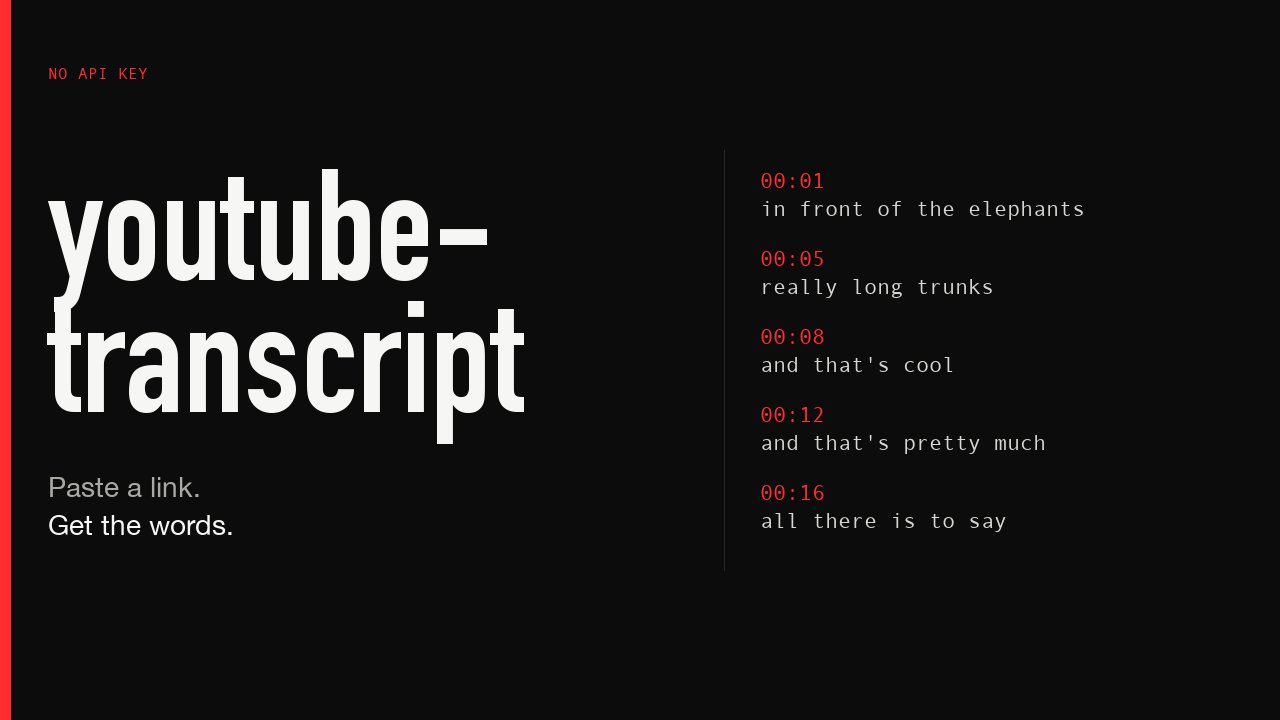
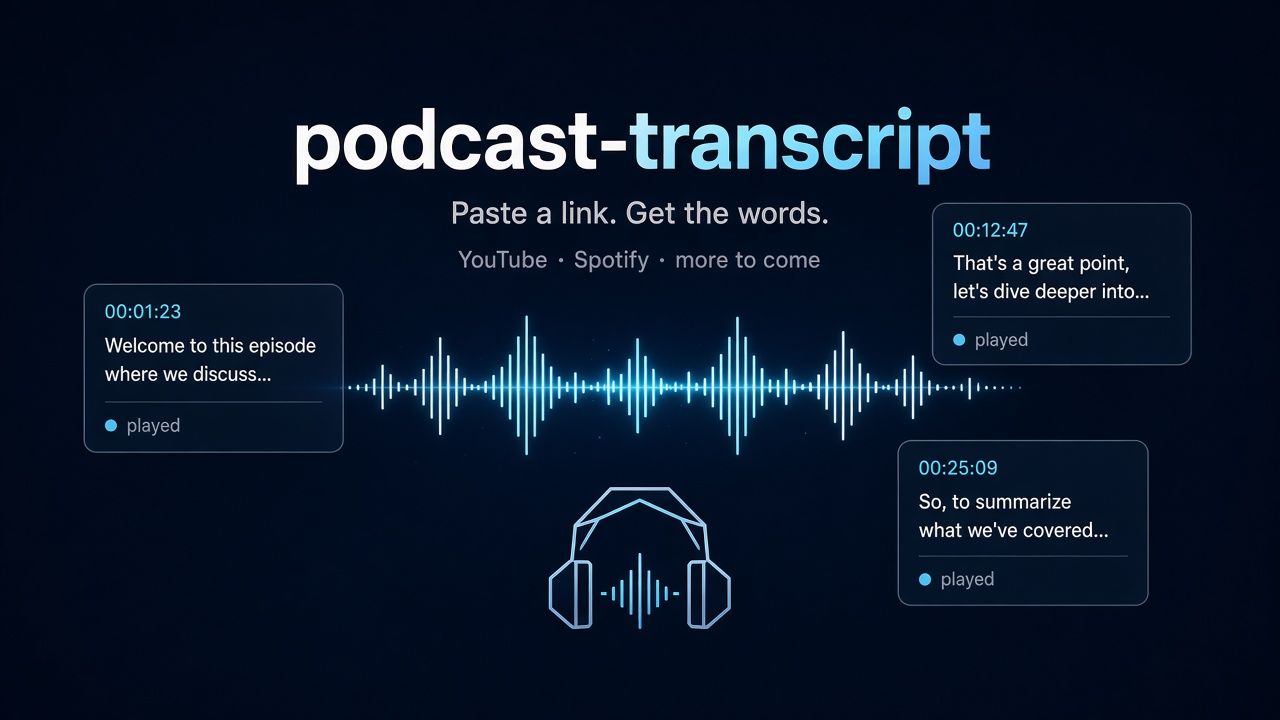
docs: rebrand repo as podcast-transcript umbrella
Reframe README around YouTube + Spotify (and future providers), update install/clone slugs, and replace the hero for the broader positioning.

diff --git a/README.md b/README.md
@@ -1,20 +1,20 @@
 <div align="center">
 
-<img src="assets/hero.png" alt="youtube-transcript. Paste a link. Get the words." width="100%">
+<img src="assets/hero.png" alt="podcast-transcript. Paste a link. Get the words." width="100%">
 
-# youtube-transcript
+# podcast-transcript
 
 **Paste a link. Get the words.**
 
-Two agent skills. YouTube captions need no account. Spotify podcast transcripts log in through a browser window when the saved session is missing.
+An agent-skill umbrella for fetching transcripts from podcast and video platforms. YouTube captions need no account. Spotify podcast transcripts log in through a browser window when the saved session is missing. More providers can land under the same repo later.
 
 [![MIT](https://img.shields.io/badge/license-MIT-111111?style=for-the-badge)](LICENSE)
 [![API key](https://img.shields.io/badge/API%20key-none-111111?style=for-the-badge)](https://github.com/jdepoix/youtube-transcript-api)
-[![command](https://img.shields.io/badge/command-%2Fyoutube--transcript-111111?style=for-the-badge)](skills/youtube-transcript/SKILL.md)
+[![skills](https://img.shields.io/badge/skills-YouTube%20%2B%20Spotify-111111?style=for-the-badge)](skills/)
 
 </div>
 
-Hand an agent a video. It comes back with the transcript.
+Hand an agent a link. It comes back with the transcript — YouTube videos today, Spotify podcast episodes today, and room for other podcast providers under the same `podcast-transcript` umbrella.
 
 ```text
 Get the transcript for https://www.youtube.com/watch?v=jNQXAC9IVRw
@@ -29,10 +29,10 @@ really really long trunks
 and that's cool
 ```
 
-That sample is the first video ever uploaded to YouTube. The skill fetched it from the public captions, on a laptop, with the command in this repo.
+That sample is the first video ever uploaded to YouTube. The YouTube skill fetched it from the public captions, on a laptop, with the command in this repo.
 
 > [!TIP]
-> Agents installing a skill: follow [Agent install](#agent-install) from top to bottom. Finish each verify command before the next step. YouTube is `/youtube-transcript`. Spotify podcasts are `/spotify-transcript`.
+> Agents installing a skill: follow [Agent install](#agent-install) from top to bottom. Finish each verify command before the next step. Provider skills in this umbrella: YouTube is `/youtube-transcript`. Spotify podcasts are `/spotify-transcript`.
 
 ## Install
 
@@ -40,13 +40,13 @@ Two commands. Then start a new agent session.
 
 ```bash
 uv tool install youtube-transcript-api
-npx -y skills add ringalls2020/youtube-transcript --skill youtube-transcript -g -y
+npx -y skills add ringalls2020/podcast-transcript --skill youtube-transcript -g -y
 ```
 
 The same install from the full URL:
 
 ```bash
-npx -y skills add https://github.com/ringalls2020/youtube-transcript --skill youtube-transcript -g -y
+npx -y skills add https://github.com/ringalls2020/podcast-transcript --skill youtube-transcript -g -y
 ```
 
 `uv` missing? Use `pipx install youtube-transcript-api`. The command that must exist afterwards is `youtube_transcript_api`.
@@ -61,8 +61,9 @@ npx -y skills add https://github.com/ringalls2020/youtube-transcript --skill you
 | "What languages does this video have?" | A table of caption tracks |
 | "Translate the captions to Spanish" | YouTube's own caption translation |
 | `/youtube-transcript <url>` | The same fetch, from the slash command |
+| `/spotify-transcript <url>` | A Spotify episode transcript |
 
-Paste a `youtube.com/watch` link, a `youtu.be` link, a Shorts link, or the 11-character video id. The agent extracts the id.
+Paste a `youtube.com/watch` link, a `youtu.be` link, a Shorts link, or the 11-character video id. The agent extracts the id. For Spotify, paste an `open.spotify.com/episode/` link, a `spotify:episode:` URI, or a 22-character episode id.
 
 ## What a fetch looks like
 
@@ -91,16 +92,16 @@ Several URLs can go in one command. Text output for more than one video starts e
 
 ## Where it runs
 
-`npx skills` installs it for the agents it finds on the machine. These are the ones this repo is built against:
+`npx skills` installs provider skills for the agents it finds on the machine. These are the ones this repo is built against:
 
 | Agent | Invoke it |
 | --- | --- |
-| Grok Build | `/youtube-transcript` |
-| Claude Code | `/youtube-transcript` |
+| Grok Build | `/youtube-transcript` or `/spotify-transcript` |
+| Claude Code | `/youtube-transcript` or `/spotify-transcript` |
 | Cursor | ask for the transcript |
 | Codex | ask for the transcript |
 | Gemini CLI | ask for the transcript |
-| Cline, Warp, Zed | the skill in `~/.agents/skills` |
+| Cline, Warp, Zed | the skills in `~/.agents/skills` |
 
 The procedure the agent follows for a video is [`skills/youtube-transcript/SKILL.md`](skills/youtube-transcript/SKILL.md). For a Spotify episode it is [`skills/spotify-transcript/SKILL.md`](skills/spotify-transcript/SKILL.md).
 
@@ -111,7 +112,7 @@ Episode transcripts need one Spotify login. The fetch script opens Spotify in a 
 ```bash
 uv tool install "spotifyscraper[browser,cli]"
 ~/.local/share/uv/tools/spotifyscraper/bin/playwright install chromium
-npx -y skills add ringalls2020/youtube-transcript --skill spotify-transcript -g -y
+npx -y skills add ringalls2020/podcast-transcript --skill spotify-transcript -g -y
 ```
 
 Then ask:
@@ -131,9 +132,10 @@ The session cookie stays in SpotifyScraper's owner-only config file. The skill d
 | It will | It will not |
 | --- | --- |
 | Read manual and auto-generated captions | Download the video or the audio |
-| Accept a URL or a video id | Search YouTube or list a channel |
-| Run locally, with no account | Open private, members-only, or age-restricted videos |
+| Accept a URL or a video / episode id | Search YouTube or list a channel |
+| Run locally, with no API key | Open private, members-only, or age-restricted videos |
 | Translate a caption track YouTube already offers | Invent words that were not in the captions |
+| Fetch Spotify episode transcripts after one login | Print or ask for the Spotify session cookie |
 
 YouTube sometimes answers `IpBlocked` or `RequestBlocked`, mostly from cloud networks. The fetch script and the library still ran. Proxy setup is in [`skills/youtube-transcript/references/cli.md`](skills/youtube-transcript/references/cli.md).
 
@@ -180,11 +182,11 @@ Pass: `command -v` prints a path. `spotifyscraper session` prints a cookie-free 
 
 ### 2. Install the skill
 
-Use one method. Source for both:
+Use one method. Source for both (umbrella repo):
 
 ```text
-ringalls2020/youtube-transcript
-https://github.com/ringalls2020/youtube-transcript
+ringalls2020/podcast-transcript
+https://github.com/ringalls2020/podcast-transcript
 ```
 
 #### Method A — skills CLI
@@ -192,24 +194,24 @@ https://github.com/ringalls2020/youtube-transcript
 Installs the skill for every agent the CLI detects on this machine.
 
 ```bash
-npx -y skills add ringalls2020/youtube-transcript --skill youtube-transcript -g -y
-npx -y skills add ringalls2020/youtube-transcript --skill spotify-transcript -g -y
+npx -y skills add ringalls2020/podcast-transcript --skill youtube-transcript -g -y
+npx -y skills add ringalls2020/podcast-transcript --skill spotify-transcript -g -y
 ```
 
 One agent:
 
 ```bash
-npx -y skills add ringalls2020/youtube-transcript --skill youtube-transcript -g -a grok -y
-npx -y skills add ringalls2020/youtube-transcript --skill youtube-transcript -g -a claude-code -y
-npx -y skills add ringalls2020/youtube-transcript --skill youtube-transcript -g -a cursor -y
-npx -y skills add ringalls2020/youtube-transcript --skill youtube-transcript -g -a codex -y
-npx -y skills add ringalls2020/youtube-transcript --skill youtube-transcript -g -a gemini-cli -y
+npx -y skills add ringalls2020/podcast-transcript --skill youtube-transcript -g -a grok -y
+npx -y skills add ringalls2020/podcast-transcript --skill youtube-transcript -g -a claude-code -y
+npx -y skills add ringalls2020/podcast-transcript --skill youtube-transcript -g -a cursor -y
+npx -y skills add ringalls2020/podcast-transcript --skill youtube-transcript -g -a codex -y
+npx -y skills add ringalls2020/podcast-transcript --skill youtube-transcript -g -a gemini-cli -y
 ```
 
 Every agent the CLI knows about, including ones that are not installed:
 
 ```bash
-npx -y skills add ringalls2020/youtube-transcript --skill youtube-transcript -g -a '*' -y
+npx -y skills add ringalls2020/podcast-transcript --skill youtube-transcript -g -a '*' -y
 ```
 
 Pass: the command exits 0.
@@ -219,8 +221,8 @@ Pass: the command exits 0.
 Use this when `npx` is unavailable. `<repo>` is the absolute path of a local clone. Create a parent directory only for an agent that is installed.
 
 ```bash
-git clone https://github.com/ringalls2020/youtube-transcript.git
-REPO="$PWD/youtube-transcript"
+git clone https://github.com/ringalls2020/podcast-transcript.git
+REPO="$PWD/podcast-transcript"
 ln -sfn "$REPO/skills/youtube-transcript" "$HOME/.grok/skills/youtube-transcript"
 ln -sfn "$REPO/skills/youtube-transcript" "$HOME/.claude/skills/youtube-transcript"
 ln -sfn "$REPO/skills/youtube-transcript" "$HOME/.cursor/skills/youtube-transcript"
@@ -291,6 +293,7 @@ skills/spotify-transcript/scripts/fetch_transcript.py
 skills/spotify-transcript/references/auth.md
 tests/test_fetch_transcript.py
 tests/test_spotify_transcript.py
+assets/hero.png
 ```
 
 ## Tests
@@ -335,4 +338,4 @@ Remove a path only when it points at this skill.
 
 MIT. See [LICENSE](LICENSE).
 
-YouTube captions come from [youtube-transcript-api](https://github.com/jdepoix/youtube-transcript-api) by jdepoix, also MIT. Spotify transcripts come from [SpotifyScraper](https://github.com/AliAkhtari78/SpotifyScraper) by Ali Akhtari, also MIT. This repo is the agent skills and the URL-friendly scripts around those libraries.
+YouTube captions come from [youtube-transcript-api](https://github.com/jdepoix/youtube-transcript-api) by jdepoix, also MIT. Spotify transcripts come from [SpotifyScraper](https://github.com/AliAkhtari78/SpotifyScraper) by Ali Akhtari, also MIT. This repo is the `podcast-transcript` agent-skill umbrella and the URL-friendly scripts around those libraries.
